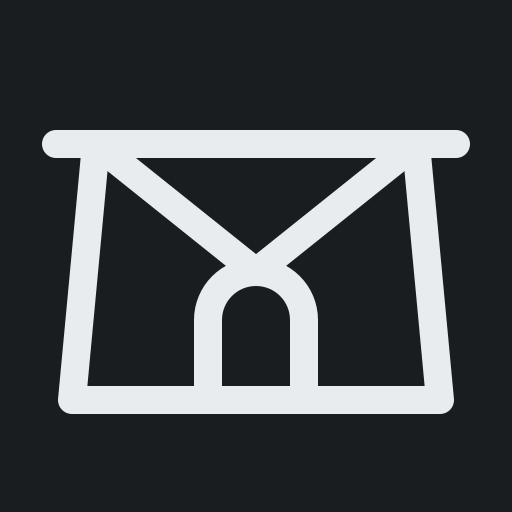
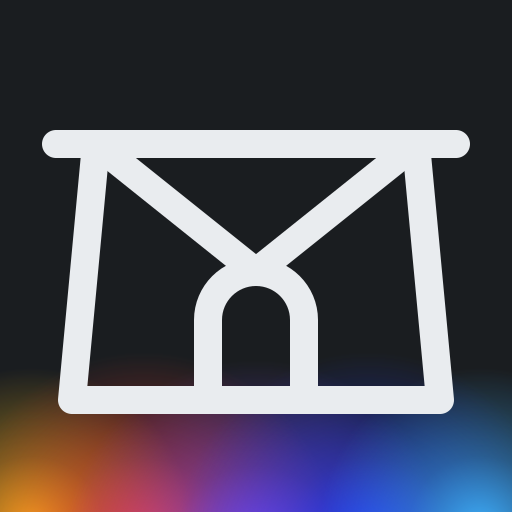
Light the brand mark with the aurora gradient
Five radial glows rising from the base of the fortress - dawn on the
walls. Regenerated every raster from the updated icon.svg and updated
the inline BrandMark component to match.

Changed region(s): [[0.0, 0.7188, 1.0, 1.0]]

diff --git a/apps/web/src/components/brand-mark.tsx b/apps/web/src/components/brand-mark.tsx
@@ -1,8 +1,10 @@
 /**
  * The Dzong brand mark: fortress walls that double as an envelope flap
  * (the V fold), with the arched gate below — the citadel and the mail in
- * one glyph. Kept as an inline component so it renders crisp at any size
- * with no network request.
+ * one glyph — lit by the aurora glow rising from the base. Kept as an
+ * inline component so it renders crisp at any size with no network
+ * request. Gradient ids are intentionally static: every instance defines
+ * the identical gradients, so id collisions resolve to an identical def.
  */
 export function BrandMark({ size = 20, className }: { size?: number; className?: string }) {
   return (
@@ -14,7 +16,39 @@ export function BrandMark({ size = 20, className }: { size?: number; className?:
       aria-hidden
       role="img"
     >
+      <defs>
+        <radialGradient id="dzg-y" gradientUnits="userSpaceOnUse" cx="4" cy="66" r="20">
+          <stop offset="0" stopColor="#FFC21A" stopOpacity=".95" />
+          <stop offset=".45" stopColor="#FFC21A" stopOpacity=".4" />
+          <stop offset="1" stopColor="#FFC21A" stopOpacity="0" />
+        </radialGradient>
+        <radialGradient id="dzg-r" gradientUnits="userSpaceOnUse" cx="18" cy="68" r="24">
+          <stop offset="0" stopColor="#FF3B2F" stopOpacity=".95" />
+          <stop offset=".45" stopColor="#FF3B2F" stopOpacity=".4" />
+          <stop offset="1" stopColor="#FF3B2F" stopOpacity="0" />
+        </radialGradient>
+        <radialGradient id="dzg-v" gradientUnits="userSpaceOnUse" cx="32" cy="69" r="24">
+          <stop offset="0" stopColor="#8A4DFF" stopOpacity=".95" />
+          <stop offset=".45" stopColor="#8A4DFF" stopOpacity=".4" />
+          <stop offset="1" stopColor="#8A4DFF" stopOpacity="0" />
+        </radialGradient>
+        <radialGradient id="dzg-b" gradientUnits="userSpaceOnUse" cx="46" cy="68" r="24">
+          <stop offset="0" stopColor="#1F3BFF" stopOpacity=".95" />
+          <stop offset=".45" stopColor="#1F3BFF" stopOpacity=".4" />
+          <stop offset="1" stopColor="#1F3BFF" stopOpacity="0" />
+        </radialGradient>
+        <radialGradient id="dzg-c" gradientUnits="userSpaceOnUse" cx="60" cy="66" r="20">
+          <stop offset="0" stopColor="#3FB4FF" stopOpacity=".95" />
+          <stop offset=".45" stopColor="#3FB4FF" stopOpacity=".4" />
+          <stop offset="1" stopColor="#3FB4FF" stopOpacity="0" />
+        </radialGradient>
+      </defs>
       <rect width="64" height="64" rx="14" fill="#1A1D20" />
+      <rect width="64" height="64" rx="14" fill="url(#dzg-y)" />
+      <rect width="64" height="64" rx="14" fill="url(#dzg-r)" />
+      <rect width="64" height="64" rx="14" fill="url(#dzg-v)" />
+      <rect width="64" height="64" rx="14" fill="url(#dzg-b)" />
+      <rect width="64" height="64" rx="14" fill="url(#dzg-c)" />
       <g
         stroke="#E9ECEF"
         strokeWidth="3.5"
